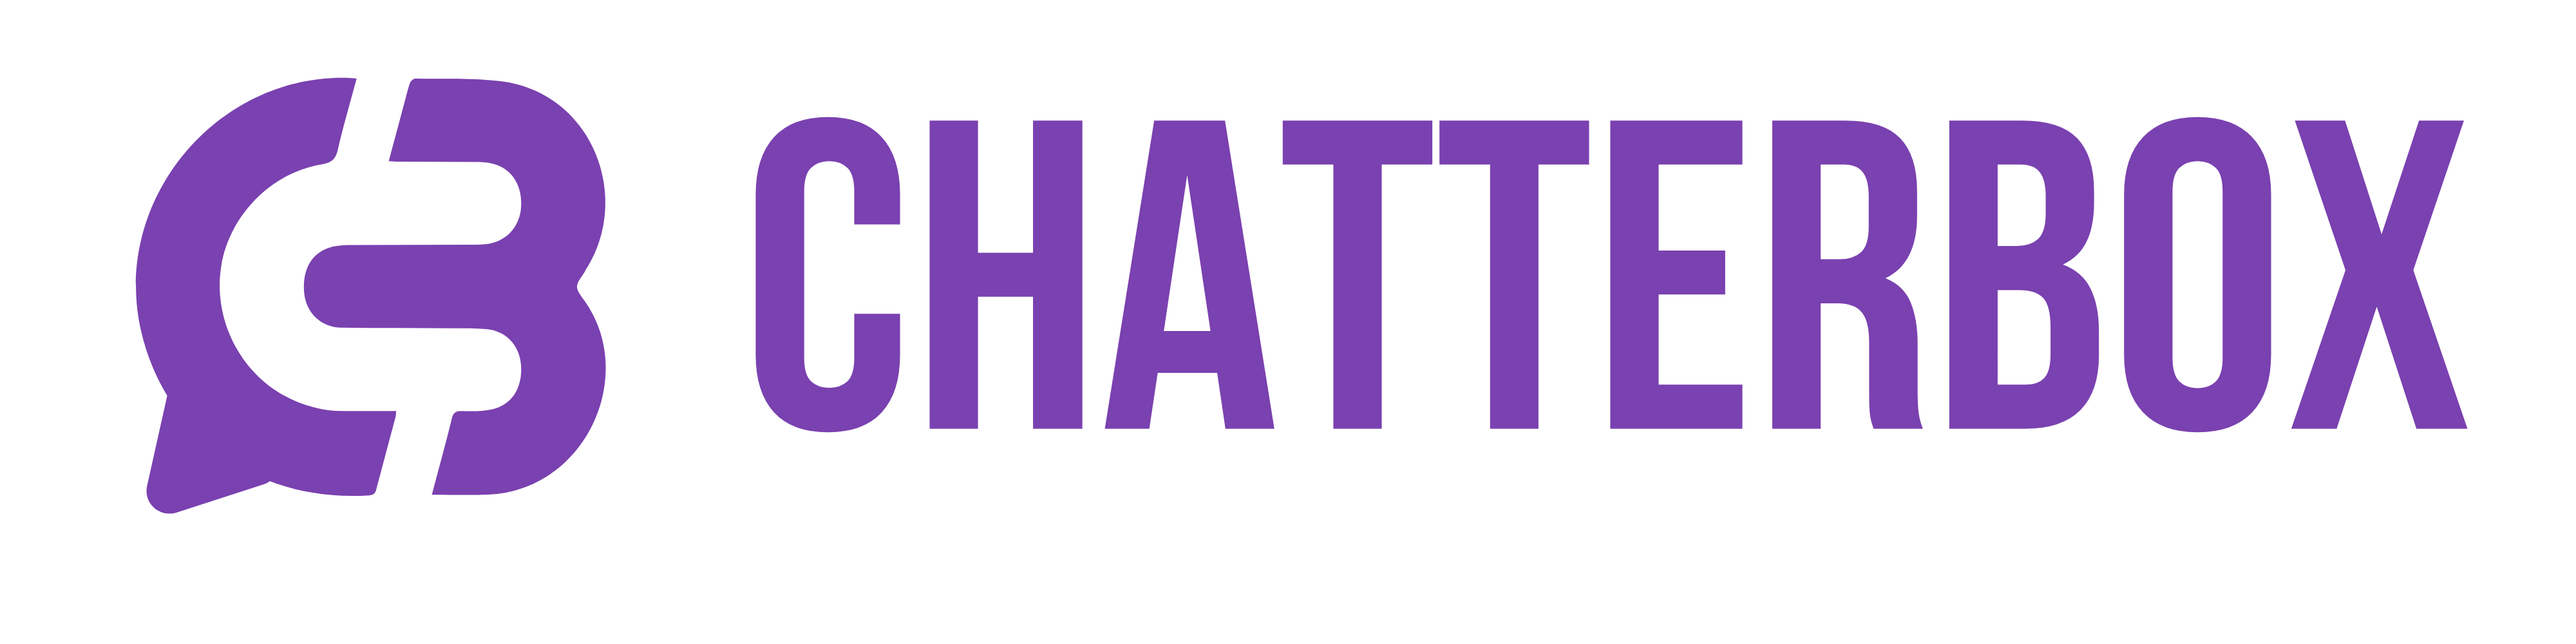
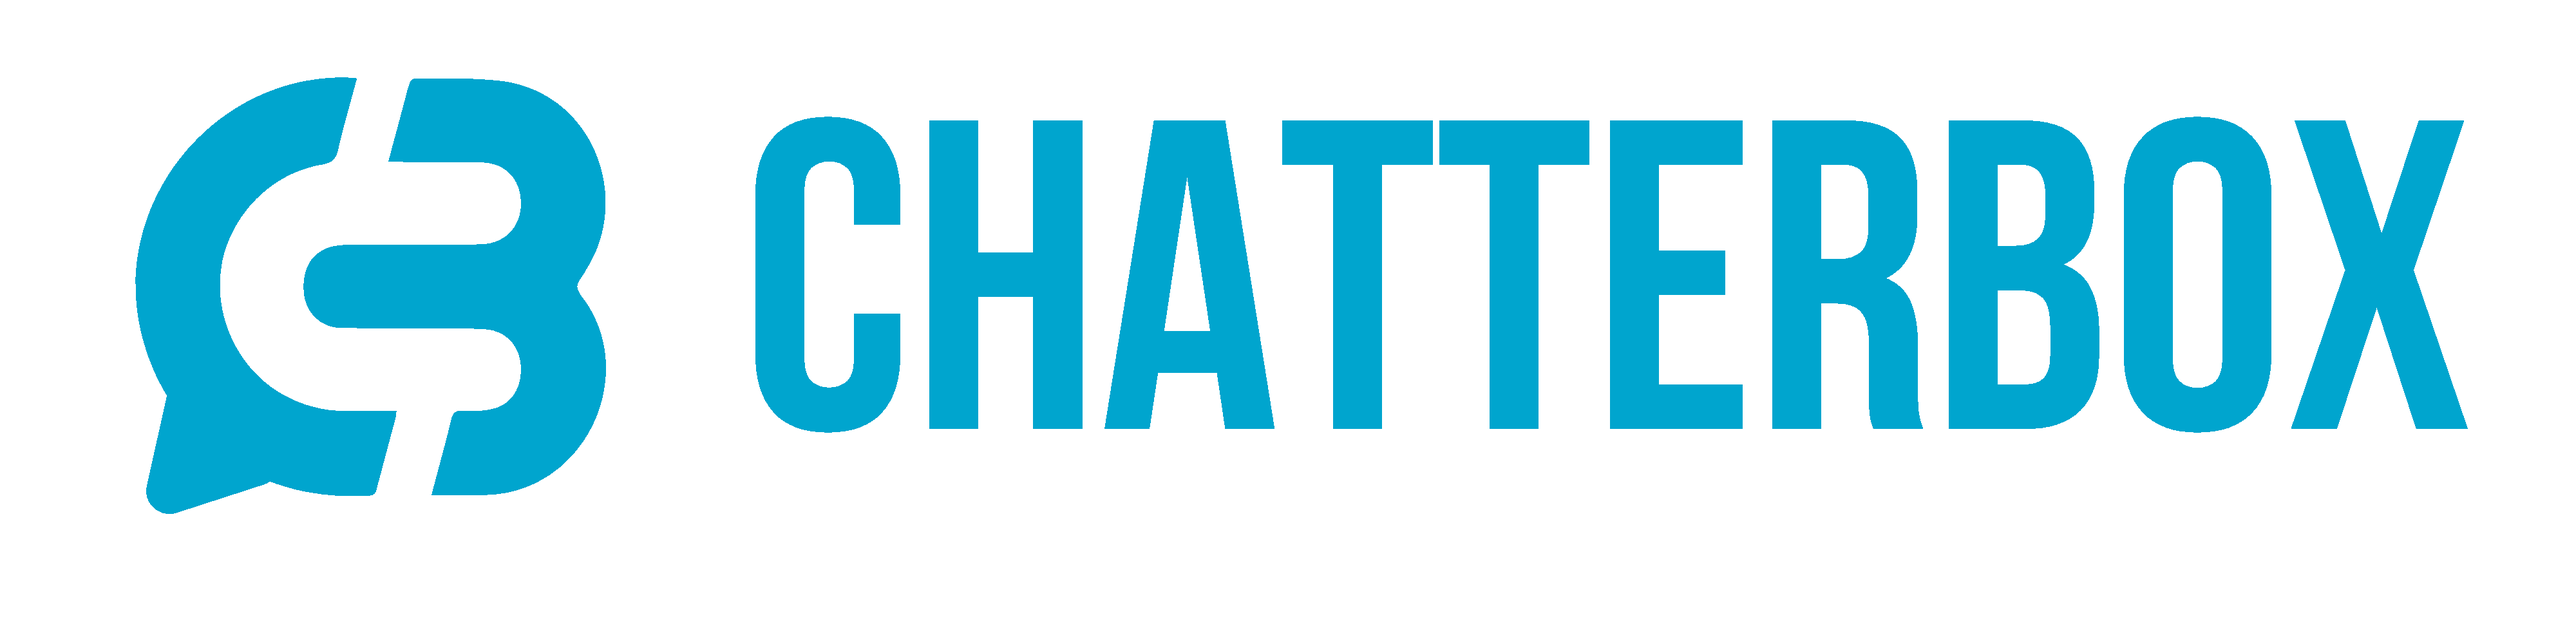
cambio de color
se cambio los colores de la pagina para cmbiar la aparienci

Changed region(s): [[0.2812, 0.186, 0.9688, 0.682], [0.0312, 0.124, 0.25, 0.806]]

diff --git a/css/perfil.css b/css/perfil.css
@@ -16,7 +16,7 @@
 
 /* COLOR VARIABLES */
 :root {
-    --primary-color: #7a41b0;
+    --primary-color: #00a4cb;
     --secondary-color: #535354;
     --background-color: #1d1d1d;
     --shadow-color: rgba(0, 0, 0, 0.1);
@@ -254,7 +254,7 @@ body {
 .profile-picture:hover {
     filter: brightness(0.9); 
     transform: scale(1.05); 
-    box-shadow:0 10px 10px #7a41b0b3; 
+    box-shadow:0 10px 10px #006987; 
 }
 
 .background-picture-container {
@@ -337,7 +337,7 @@ body {
 
 .post:hover {
     transform: scale(1.05); 
-    box-shadow: 0 0 10px 1px #7a41b0b3; 
+    box-shadow: 0 0 10px 1px #006987; 
 }
 
 /* IMAGEN DENTRO DE LA PUBLICACIÓN */
@@ -453,7 +453,7 @@ body {
 }
   
 .like-btn:hover, .download-btn:hover, .edit-post-btn:hover {
-    background-color: #6a359c; 
+    background-color: #006987; 
 }
   
 .close-Full {
@@ -566,7 +566,7 @@ body {
     align-items: center;
     gap: 10px; 
     padding: 15px 30px; 
-    background-color: #db0000; 
+    background-color: #00ebff; 
     color: var(--white-color);
     border: none;
     border-radius: 30px;
@@ -577,10 +577,10 @@ body {
   
   
 .edit-post-save:hover ,.edit-post-discard:hover{
-    background-color: #6a359c; 
+    background-color: #006987; 
 }
 .edit-post-delete:hover {
-    background-color: #8a0000; 
+    background-color: #9af7ff; 
 }
 
 .edit-post-buttons {

diff --git a/css/likes.css b/css/likes.css
@@ -16,7 +16,7 @@
 
 /* COLOR VARIABLES */
 :root {
-    --primary-color: #7a41b0;
+    --primary-color: #00a4cb;
     --secondary-color: #535354;
     --background-color: #1d1d1d;
     --shadow-color: rgba(0, 0, 0, 0.1);
@@ -254,7 +254,7 @@ body {
 .profile-picture:hover {
     filter: brightness(0.9); 
     transform: scale(1.05); 
-    box-shadow:0 10px 10px #7a41b0b3; 
+    box-shadow:0 10px 10px #006987; 
 }
 
 .background-picture-container {
@@ -332,7 +332,7 @@ body {
 
 .post:hover {
     transform: scale(1.05); 
-    box-shadow: 0 0 10px 1px #7a41b0b3; 
+    box-shadow: 0 0 10px 1px #006987; 
 }
 
 /* IMAGEN DENTRO DE LA PUBLICACIÓN */
@@ -448,7 +448,7 @@ body {
   }
   
   .like-btn:hover, .download-btn:hover, .edit-post-btn:hover {
-    background-color: #6a359c; 
+    background-color: #006987; 
   }
   
   .close-Full {
@@ -561,7 +561,7 @@ body {
     align-items: center;
     gap: 10px; 
     padding: 15px 30px; 
-    background-color: #db0000; 
+    background-color: #00ebff; 
     color: var(--white-color);
     border: none;
     border-radius: 30px;
@@ -575,7 +575,7 @@ body {
     background-color: #6a359c; 
   }
   .edit-post-delete:hover {
-    background-color: #8a0000; 
+    background-color: #9af7ff; 
   }
 
   .edit-post-buttons {

diff --git a/css/switch.css b/css/switch.css
@@ -28,7 +28,7 @@
   left: 0;
   right: 0;
   bottom: 0;
-  background-color: #b2e3ff;
+  background-color: #00a4cb;
   transition: .4s;
   border-radius: 30px;
 }
@@ -42,18 +42,18 @@
   left: var(--slider-offset,0.3em);
   top: 50%;
   transform: translateY(-50%);
-  background: linear-gradient(40deg,#ff8c00,#ff8c00 70%);
+  background: linear-gradient(40deg,#16232e,#006987 70%);
   ;
  transition: .4s;
 }
 
 input:checked + .slider {
-  background-color: #110244;
+  background-color: #120907;
 }
 
 input:checked + .slider:before {
   left: calc(100% - (var(--size-of-icon,1.4em) + var(--slider-offset,0.3em)));
-  background: #110244;
+  background: #00a4cb;
   /* change the value of second inset in box-shadow to change the angle and direction of the moon  */
-  box-shadow: inset -3px -2px 5px -2px #ffffff, inset -10px -4px 0 0 #ffffff;
+  box-shadow: inset -3px -2px 5px -2px #006987, inset -10px -4px 0 0 #006987;
 }

diff --git a/css/dashboard.css b/css/dashboard.css
@@ -3,7 +3,7 @@
 
 /* COLOR VARIABLES */
 :root {
-  --primary-color: #7a41b0;
+  --primary-color: #00a4cb;
   --secondary-color: #535354;
   --background-color: #1d1d1d;
   --shadow-color: rgba(0, 0, 0, 0.1);
@@ -136,7 +136,7 @@ body {
   }
   
   .like-btn:hover, .download-btn:hover {
-    background-color: #6a359c; 
+    background-color: #006987; 
   }
 
 /* RESPONSIVE */
@@ -190,7 +190,7 @@ body {
 }
 
 .create-post-btn:hover {
-    background-color: #6a359c;
+    background-color: #006987;
     transform: scale(1.05);
 }
 
@@ -310,7 +310,7 @@ body {
 }
 
 .btn-change-photo:hover {
-    background-color: #6a359c;
+    background-color: #006987;
 }
 
 .container-navbuttons {

diff --git a/css/iconsreverse.css b/css/iconsreverse.css
@@ -11,7 +11,7 @@
     position: relative;
     overflow: hidden;
     transition-duration: .3s;
-    background-color: #7a41b0;
+    background-color: #00a4cb;
     
   }
   
@@ -27,7 +27,7 @@
     position: relative;
     overflow: hidden;
     transition-duration: .3s;
-    background-color: #ff2d2d; /* Color rojo */
+    background-color: #00ebff; /* Color rojo */
 }
 
   /* plus sign */
@@ -99,7 +99,7 @@
     position: relative;
     overflow: hidden;
     transition-duration: .3s;
-    background-color: #7a41b0; /* AQUI SON LOS BOTONES*/
+    background-color: #00a4cb; /* AQUI SON LOS BOTONES*/
     
   }
   

diff --git a/css/chat.css b/css/chat.css
@@ -3,9 +3,9 @@
 
 /* COLOR VARIABLES */
 :root {
-  --primary-color: #7a41b0;
+  --primary-color: #00a4cb;
   --secondary-color: #535354;
-  --background-color: #1d1d1d;
+  --background-color: #ffffff;   /*color de fondo para el chat*/
   --shadow-color: rgba(0, 0, 0, 0.1);
   --white-color: #FFF;
   --black-color: #000;
@@ -77,7 +77,7 @@ body {
 }
 
 .search-form .btn:hover {
-  background-color: #6a359c;
+  background-color: #006987;
 }
 
 .nav-link {
@@ -215,7 +215,7 @@ body {
 }
 
 .chat-input .btn:hover {
-  background-color: #6a359c;
+  background-color: #006987;
 }
 
 /* FOOTER */

diff --git a/css/RolUsuario.css b/css/RolUsuario.css
@@ -1,8 +1,8 @@
 /* From Uiverse.io by Pradeepsaranbishnoi */ 
 :focus {
     outline: 0;
-    border-color: #7a41b0;
-    box-shadow: 0 0 0 4px #7a41b0;
+    border-color: #00a4cb;
+    box-shadow: 0 0 0 4px #00a4cb;
   }
   
   .mydict div {
@@ -23,10 +23,10 @@
   }
   
   .mydict input[type="radio"]:checked + span {
-    box-shadow: 0 0 0 0.0625em #7a41b0;
+    box-shadow: 0 0 0 0.0625em #00a4cb;
     background-color: #f0ddff;
     z-index: 1;
-    color: #7a41b0;
+    color: #00a4cb;
   }
   
   label span {

diff --git a/css/genero.css b/css/genero.css
@@ -1,8 +1,8 @@
 /* From Uiverse.io by Pradeepsaranbishnoi */ 
 :focus {
     outline: 0;
-    border-color: #7a41b0;
-    box-shadow: 0 0 0 4px #7a41b0;
+    border-color: #00a4cb;
+    box-shadow: 0 0 0 4px #00a4cb;
   }
   
   .mydict div {
@@ -23,10 +23,10 @@
   }
   
   .mydict input[type="radio"]:checked + span {
-    box-shadow: 0 0 0 0.0625em #7a41b0;
+    box-shadow: 0 0 0 0.0625em #00a4cb;
     background-color: #f0ddff;
     z-index: 1;
-    color: #7a41b0;
+    color: #00a4cb;
   }
   
   label span {

diff --git a/css/icons.css b/css/icons.css
@@ -11,7 +11,7 @@
     position: relative;
     overflow: hidden;
     transition-duration: .3s;
-    background-color: #7a41b0;
+    background-color: #00a4cb;
     
   }
   
@@ -105,7 +105,7 @@
   }
   
   .sign svg path {
-    fill: #7a41b0;
+    fill: #00a4cb;
   }
   
   /* text */
@@ -114,7 +114,7 @@
     right: 0%;
     width: 0%;
     opacity: 0;
-    color: #7a41b0;
+    color: #00a4cb;
     font-size: 1.1em;
     font-weight: 600;
     transition-duration: .3s;

diff --git a/css/EditarP.css b/css/EditarP.css
@@ -17,7 +17,7 @@
 
 /* COLOR VARIABLES */
 :root {
-    --primary-color: #7a41b0;
+    --primary-color: #00a4cb;
     --secondary-color: #535354;
     --background-color: #1d1d1d;
     --shadow-color: rgba(0, 0, 0, 0.1);
@@ -351,7 +351,7 @@ body {
 }
 
 .btn-change-photo:hover, .btn-change-bg:hover {
-    background-color: #5a2b8a;
+    background-color: #006987;
 }
 
 /* OCULTAR INPUTS DE ARCHIVO */

diff --git a/css/login.css b/css/login.css
@@ -3,13 +3,13 @@
 
 /* COLOR VARIABLES */
 :root {
-    --primary-color: #7a41b0;
+    --primary-color: #00a4cb;
     --secondary-color: #535354;
     --background-color: #1d1d1d;
     --shadow-color: rgba(0, 0, 0, 0.1);
     --white-color: #FFF;
     --black-color: #000;
-    --input-border-color: #E3E4E6;
+    --input-border-color: #00143d;
     --transition-3s: 0.3s;
 }
 

diff --git a/css/busqueda.css b/css/busqueda.css
@@ -15,7 +15,7 @@
 
 /* COLOR VARIABLES */
 :root {
-    --primary-color: #7a41b0;
+    --primary-color: #00a4cb;
     --secondary-color: #535354;
     --background-color: #1d1d1d;
     --shadow-color: rgba(0, 0, 0, 0.1);
@@ -97,7 +97,7 @@ body {
 }
 
 .search-btn:hover {
-    background: #5a2b8a;
+    background: #006987;
 }
 
 .search-btn i {
